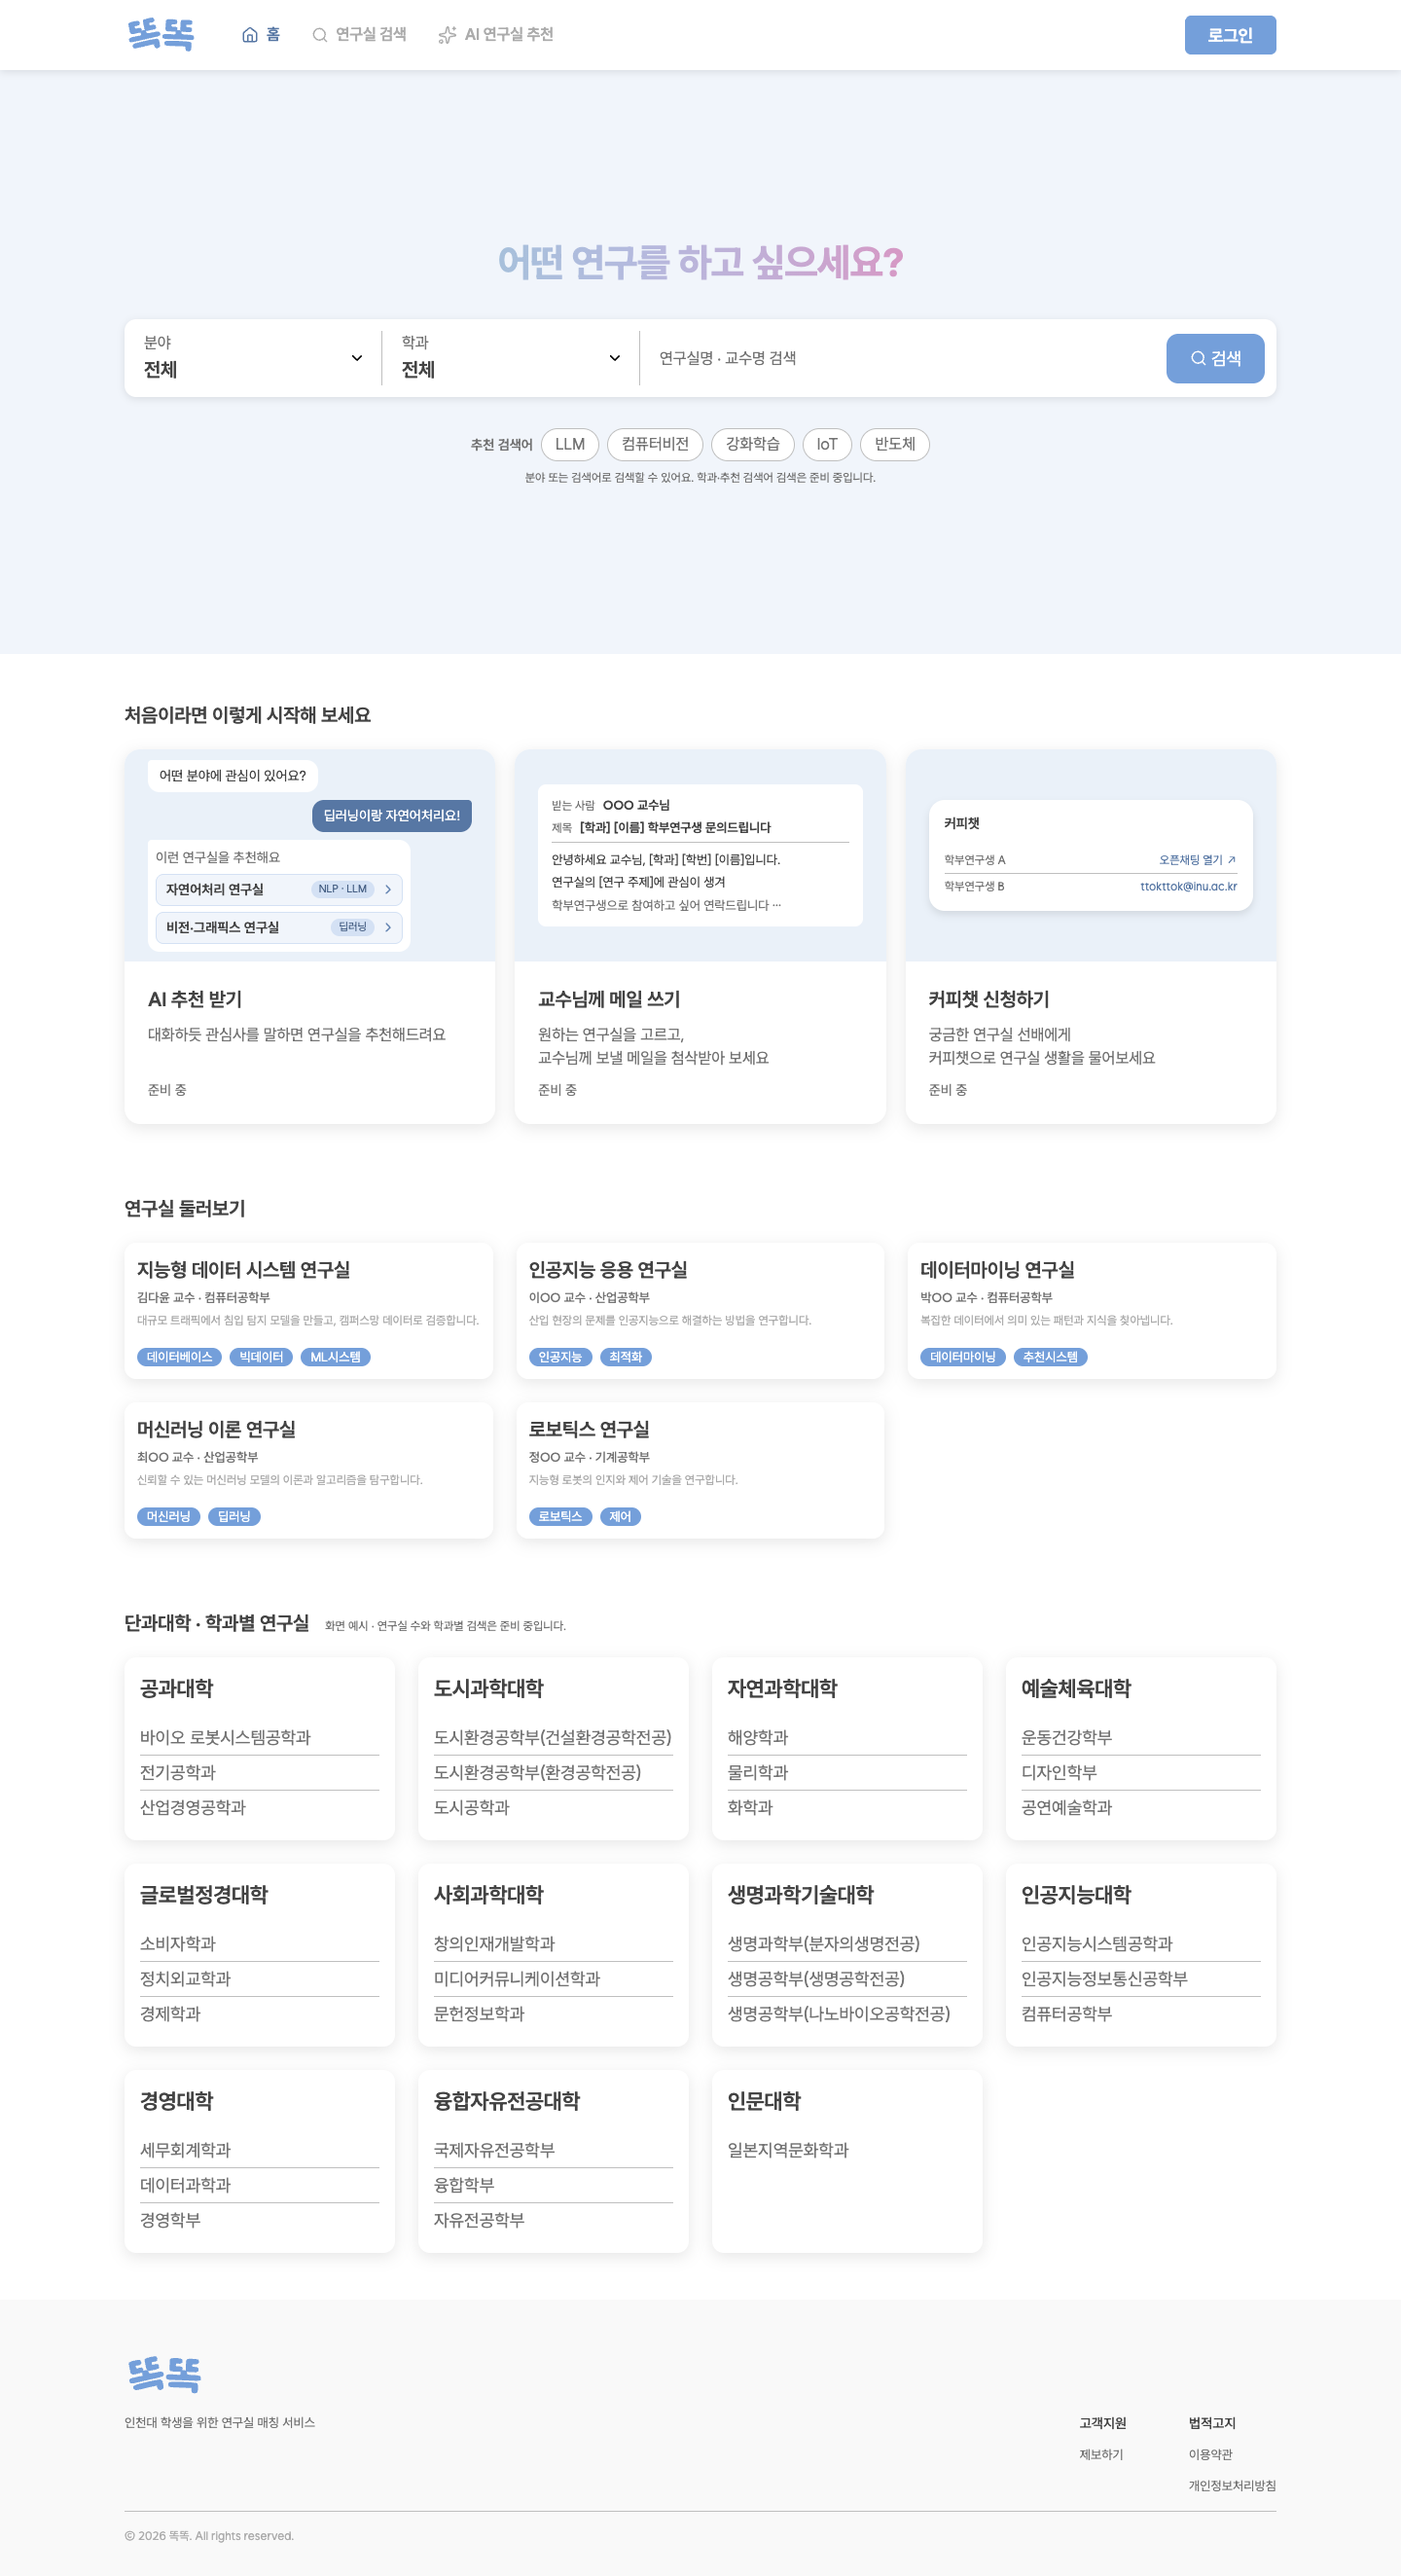
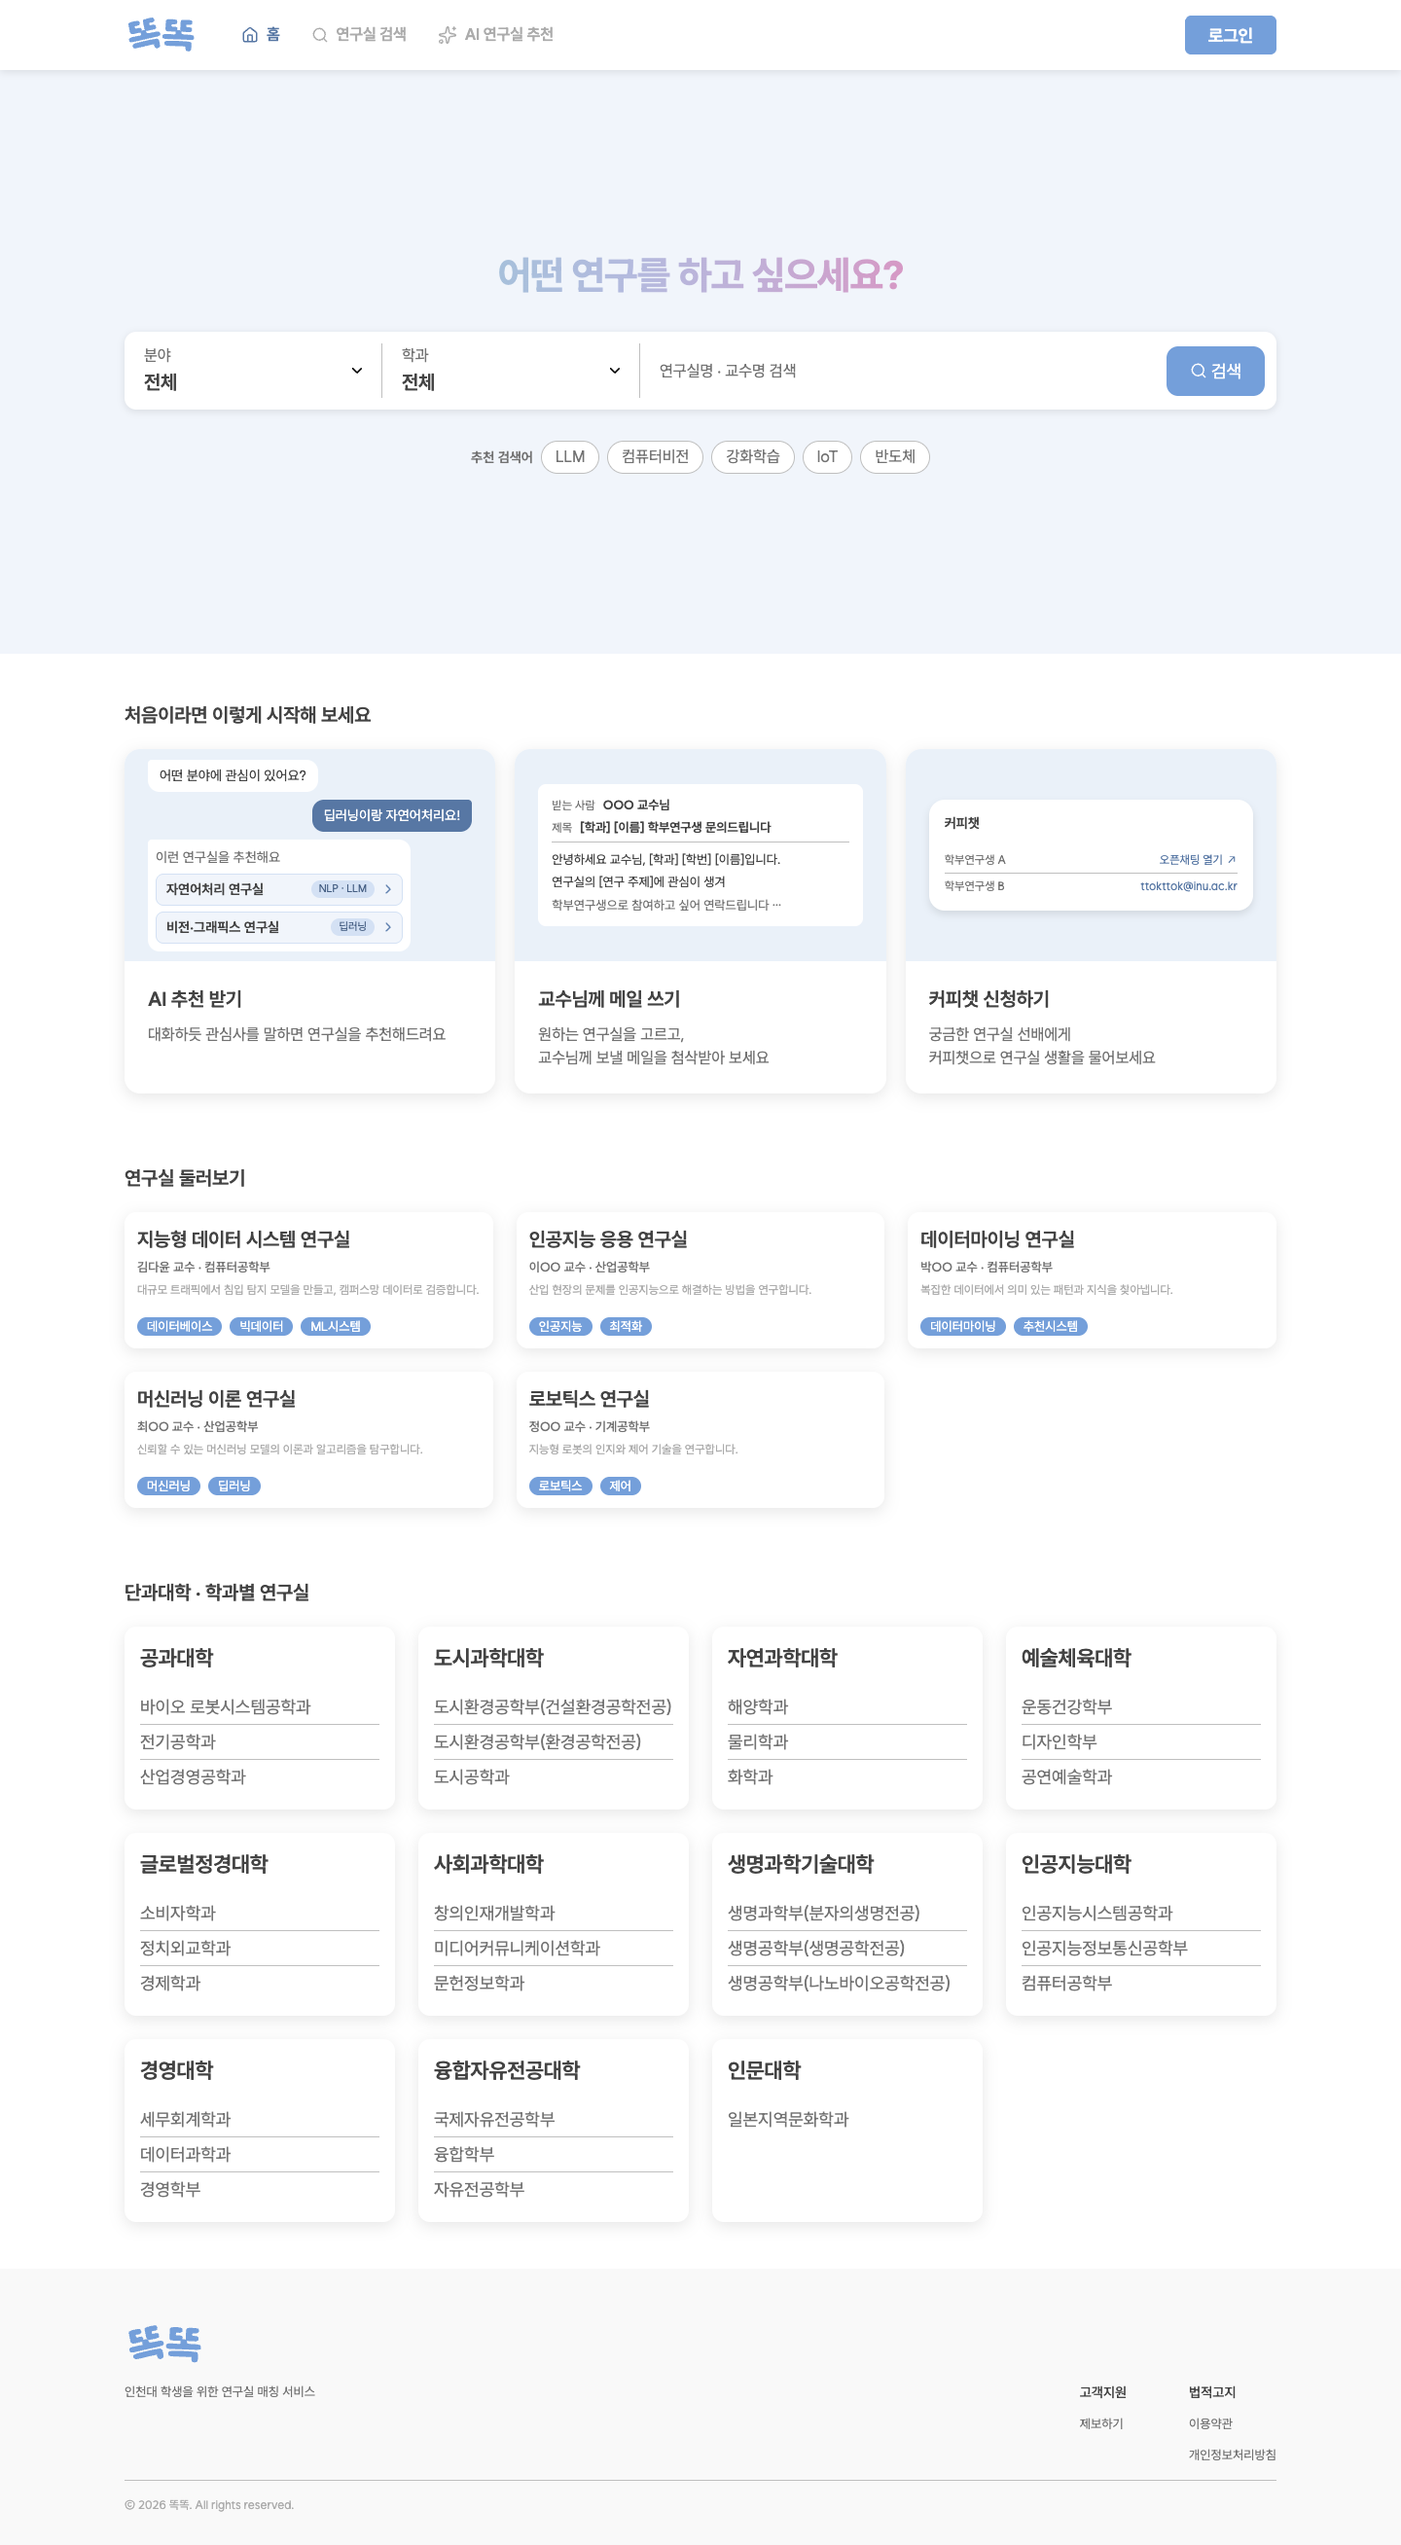
🎨 design : 홈 화면의 불필요한 상태 안내 문구 제거
검색바·서비스 카드·학과별 카드의 상시 안내 문구를 덜어내고 분야 목록 조회 실패 안내만 유지한다. PR 스크린샷을 갱신한다.

Related to: TTOK-60

diff --git a/src/features/search-lab/ui/home-search-field.tsx b/src/features/search-lab/ui/home-search-field.tsx
@@ -60,7 +60,7 @@ export function HomeSearchField({ categories = [], categoriesError }: HomeSearch
         <div className="relative flex min-w-0 items-center pl-2 pr-4 xl:h-full xl:w-[253px] xl:shrink-0 xl:border-r xl:border-border-subtle">
           <label className="flex min-w-0 flex-1 flex-col text-[length:var(--font-size-body2)] leading-[1.5] text-text-subtle">
             학과
-            <select aria-label="학과 (준비 중)" className="w-full cursor-not-allowed appearance-none bg-transparent pr-6 text-[length:var(--font-size-heading2)] font-semibold tracking-[-0.01em] text-text-default" disabled title="학과 검색은 준비 중입니다" value="" >
+            <select aria-label="학과" className="w-full cursor-not-allowed appearance-none bg-transparent pr-6 text-[length:var(--font-size-heading2)] font-semibold tracking-[-0.01em] text-text-default" disabled value="">
               <option value="">전체</option>
             </select>
           </label>
@@ -71,15 +71,17 @@ export function HomeSearchField({ categories = [], categoriesError }: HomeSearch
           <Button disabled={isPending} leadingIcon={<Image alt="" height={18} src="/icons/home/search/search.svg" width={18} />} size="lg" type="submit">검색</Button>
         </div>
       </form>
-      <div aria-label="추천 검색어 (준비 중)" className="flex max-w-full flex-wrap items-center justify-center gap-2">
+      <div aria-label="추천 검색어" className="flex max-w-full flex-wrap items-center justify-center gap-2">
         <span className="text-[length:var(--font-size-label1)] font-semibold text-text-subtle">추천 검색어</span>
         {RECOMMENDED_KEYWORDS.map((keyword) => (
-          <button disabled className="rounded-full border border-border-subtle bg-bg-default px-3.5 py-1 text-[length:var(--font-size-body2)] leading-[1.5] text-text-subtle focus-visible:outline-2 focus-visible:outline-offset-2 focus-visible:outline-border-primary" key={keyword} title="추천 검색어 검색 준비 중" type="button">{keyword}</button>
+          <button disabled className="rounded-full border border-border-subtle bg-bg-default px-3.5 py-1 text-[length:var(--font-size-body2)] leading-[1.5] text-text-subtle focus-visible:outline-2 focus-visible:outline-offset-2 focus-visible:outline-border-primary" key={keyword} type="button">{keyword}</button>
         ))}
       </div>
-      <p className="-mt-6 text-center text-[length:var(--font-size-caption1)] text-text-subtle" id="home-category-error">
-        {categoriesError ?? (categories.length === 0 ? "분야 목록을 준비 중입니다. " : "분야 또는 검색어로 검색할 수 있어요. ")}학과·추천 검색어 검색은 준비 중입니다.
-      </p>
+      {categoriesError ? (
+        <p className="-mt-6 text-center text-[length:var(--font-size-caption1)] text-text-subtle" id="home-category-error">
+          {categoriesError}
+        </p>
+      ) : null}
     </div>
   );
 }

diff --git a/src/_pages/home/ui/home-department-preview.tsx b/src/_pages/home/ui/home-department-preview.tsx
@@ -16,14 +16,9 @@ const COLLEGE_PREVIEW = [
 export function HomeDepartmentPreview() {
   return (
     <section aria-labelledby="home-departments-heading" className="flex flex-col gap-5 pb-12 pt-6">
-      <div className="flex flex-wrap items-baseline gap-x-4 gap-y-1">
-        <h2 className="text-[length:var(--font-size-heading2)] font-semibold leading-[1.5] tracking-[-0.01em]" id="home-departments-heading">
-          단과대학 · 학과별 연구실
-        </h2>
-        <p className="text-[length:var(--font-size-caption1)] text-text-subtle">
-          화면 예시 · 연구실 수와 학과별 검색은 준비 중입니다.
-        </p>
-      </div>
+      <h2 className="text-[length:var(--font-size-heading2)] font-semibold leading-[1.5] tracking-[-0.01em]" id="home-departments-heading">
+        단과대학 · 학과별 연구실
+      </h2>
       <div className="grid grid-cols-2 gap-6 xl:grid-cols-4">
         {COLLEGE_PREVIEW.map((college) => (
           <div className="flex min-w-0 flex-col gap-3 rounded-[var(--radius-xl)] bg-bg-default p-4 shadow-[0_4px_16px_var(--color-opacity-black-10)]" key={college.name}>

diff --git a/src/_pages/home/ui/home-service-guide.tsx b/src/_pages/home/ui/home-service-guide.tsx
@@ -61,7 +61,6 @@ function ServiceCard({ title, description, children }: {
       <div className="flex flex-1 flex-col items-start gap-2.5 p-6">
         <h3 className="text-[length:var(--font-size-heading2)] font-semibold leading-[1.5] tracking-[-0.01em]">{title}</h3>
         <p className="text-[length:var(--font-size-body2)] leading-[1.5] text-text-subtle">{description}</p>
-        <span className="mt-auto text-[length:var(--font-size-label1)] text-text-subtle">준비 중</span>
       </div>
     </article>
   );
